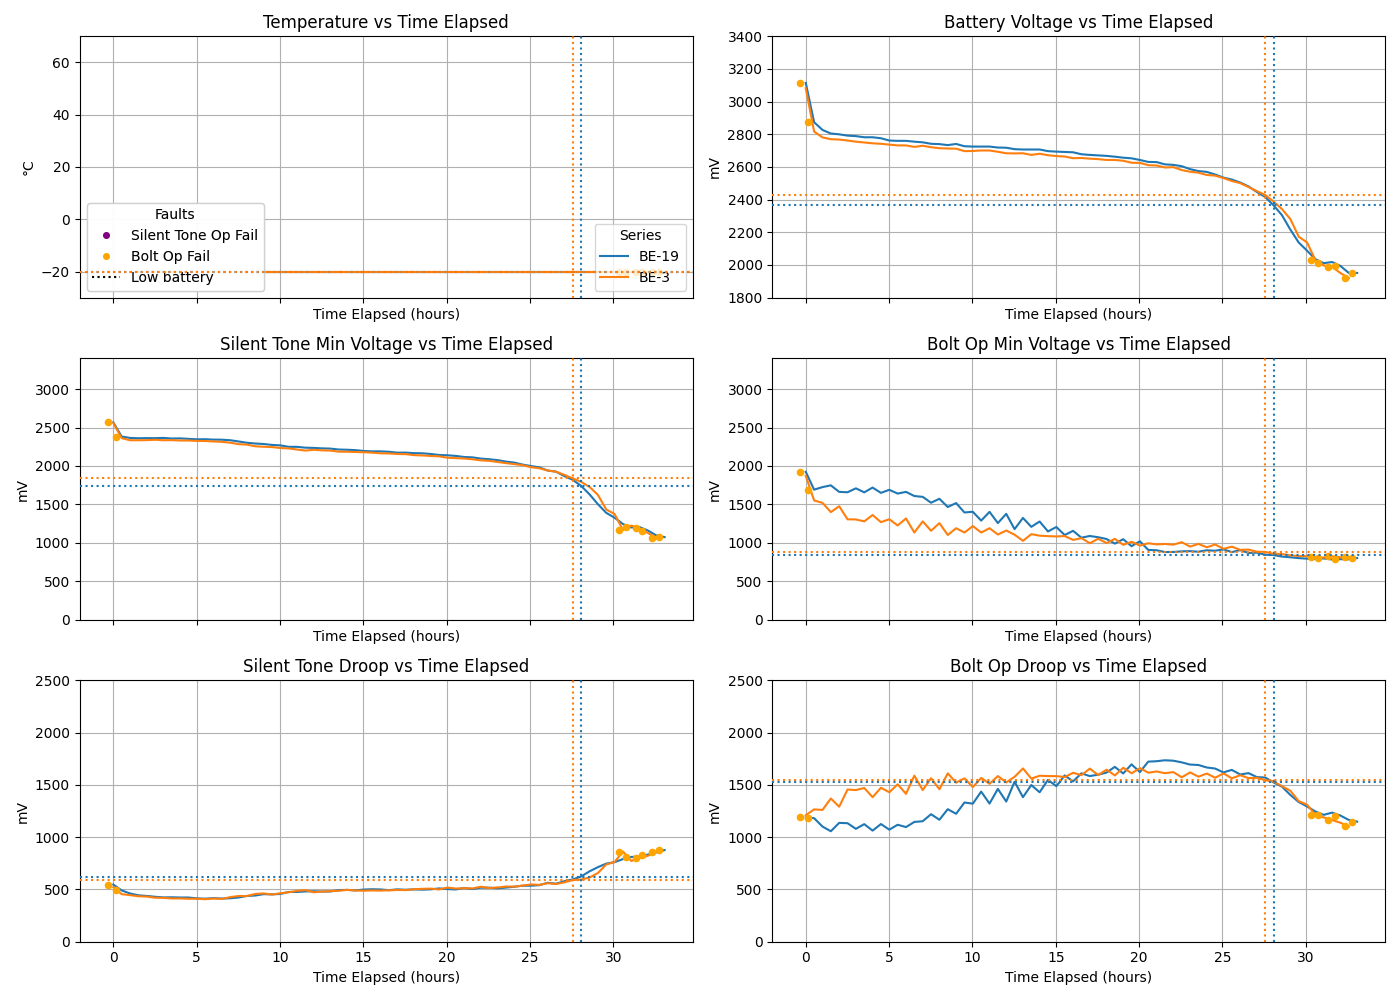
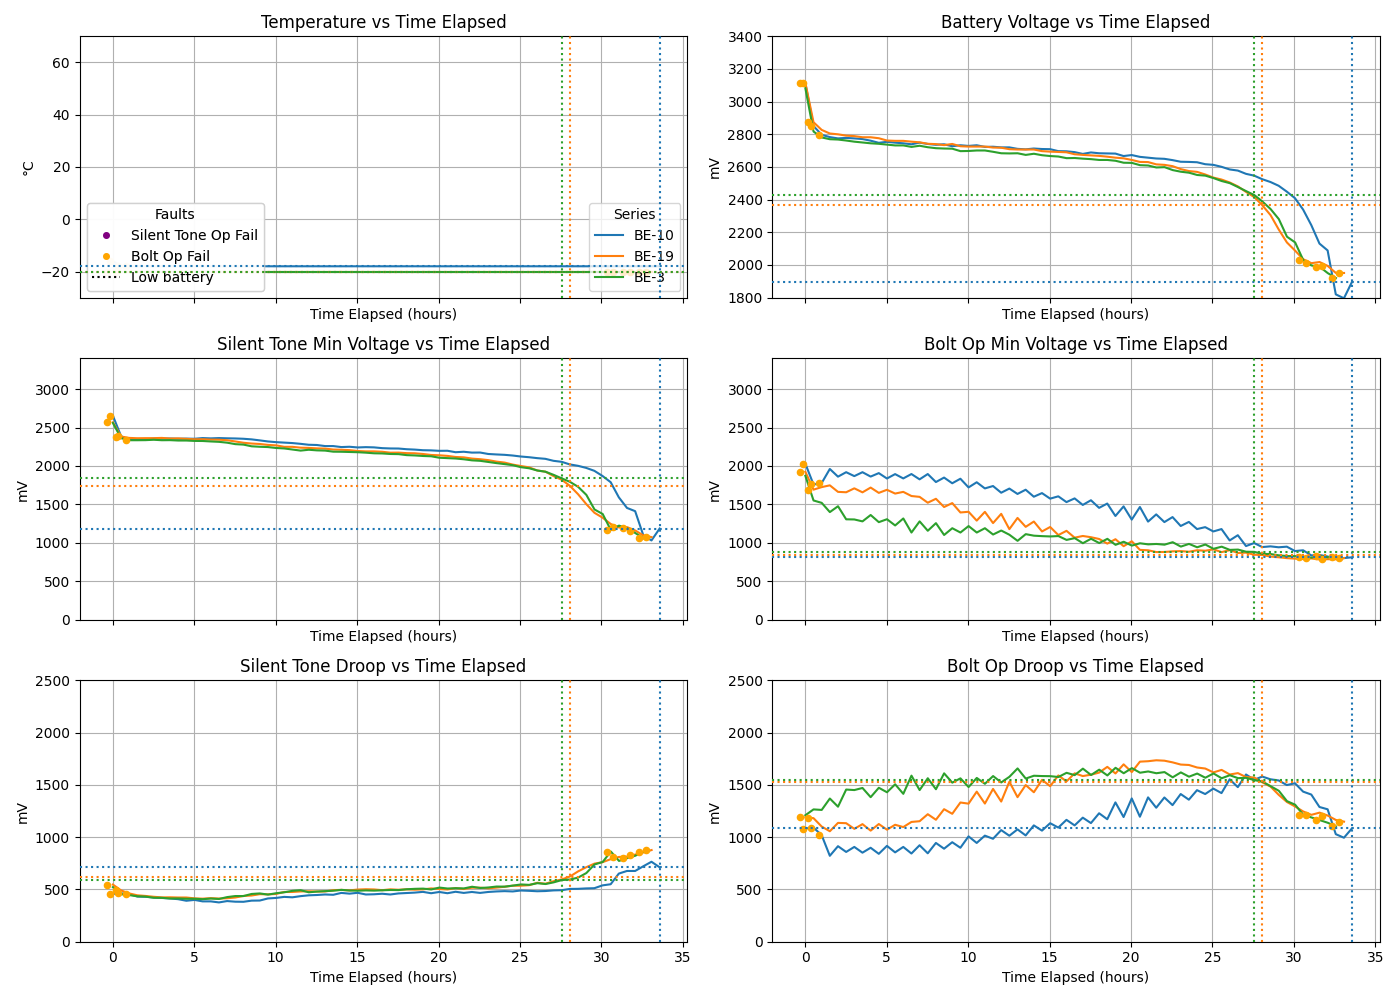
energizer m20c

diff --git a/plot_folder.py b/plot_folder.py
@@ -6,7 +6,7 @@ import numpy as np  # NEW
 from matplotlib.lines import Line2D
 
 # CONFIGURATION
-CSV_DIR = "csvs/manufacturers-cross-temp/temp-40c/tenergy"
+CSV_DIR = "csvs/manufacturers-cross-temp/temp-m20c/energizer"
 CSV_TAG = os.path.basename(os.path.normpath(CSV_DIR))
 PLOT_OUTPUT = f"plots/compare_all_{CSV_DIR.replace("/", "-")}.png"
 COMPUTE_LOW_BATT_BY_ALL_FAULTS=True
@@ -94,11 +94,10 @@ for csv_path in csv_files:
             idx_low_batt = df.index[-1]
             idx_first_fault = idx_low_batt
 
-            if idx_first_fault:
-                trim_idx = idx_first_fault + 5
-                if trim_idx < len(df):
-                    df = df.iloc[:trim_idx]
-                    t_series = df["Time Elapsed (hours)"]
+        trim_idx = idx_first_fault + 5
+        if trim_idx < len(df):
+            df = df.iloc[:trim_idx]
+            t_series = df["Time Elapsed (hours)"]
 
     for i, (col, title, unit) in enumerate(COLUMNS_TO_PLOT):
         ax = axes[i]
